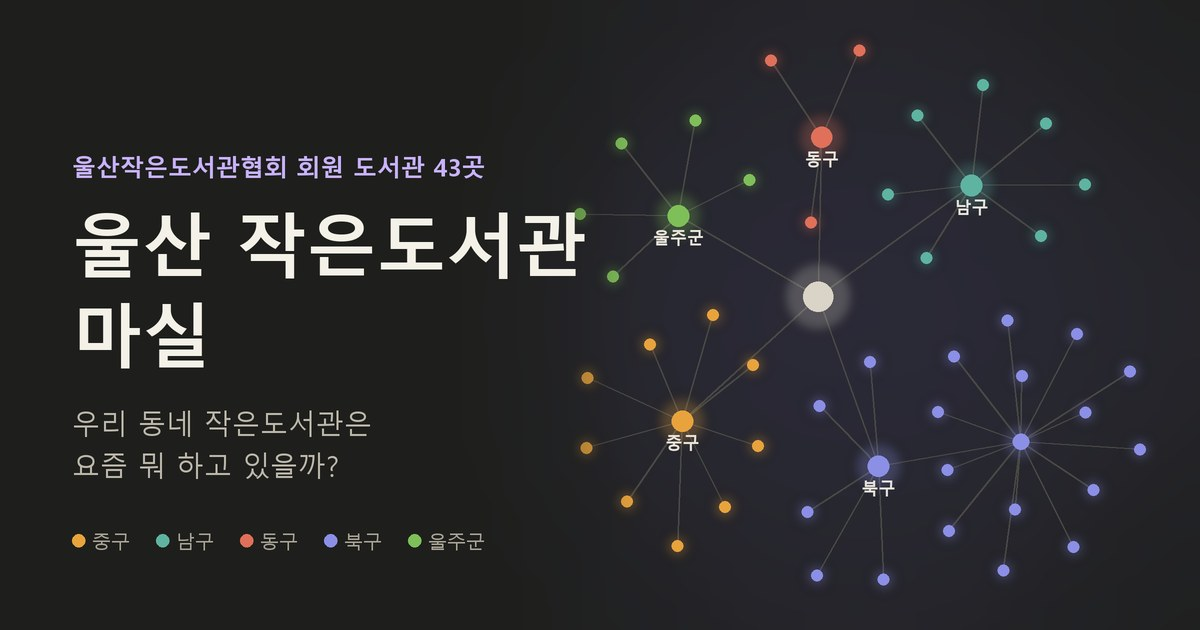
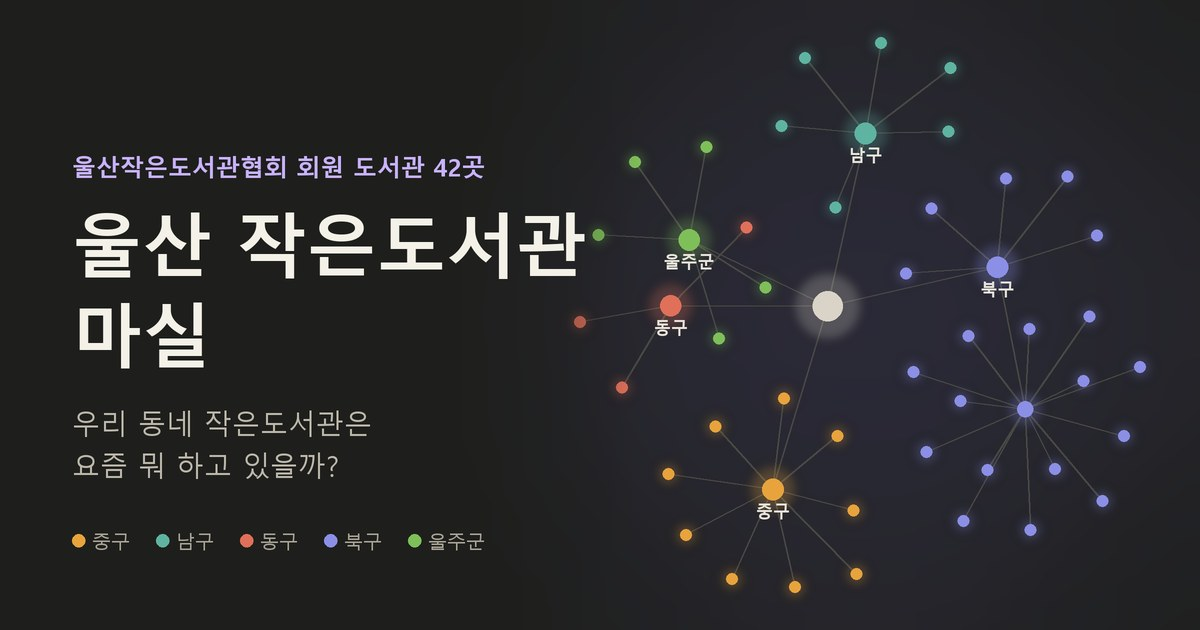
작은도서관 마실: 회원도서관 현황(2026.02.04, 42곳)으로 명단 갱신
대공원대명루첸·부엉이어린이 숨김, 책의숲작은도서관 추가, 해담은→해오름 이름 변경,
꿈틀꿈틀·밝은미래·다문화 새 주소(위치 못 찾아 지도 핀 뺌), 전화번호 갱신.
미리보기 그림도 42곳으로 다시 만듦. 캐시 때문에 명단·공용 스크립트 버전 올림.

diff --git a/landing/smalllib/index.html b/landing/smalllib/index.html
@@ -9,7 +9,7 @@
 <meta property="og:url" content="https://vaulted-bus-346411.web.app/smalllib">
 <meta property="og:title" content="울산 작은도서관 마실">
 <meta property="og:description" content="우리 동네 작은도서관은 요즘 뭐 하고 있을까? 울산 작은도서관들의 사진과 활동 소식.">
-<meta property="og:image" content="https://vaulted-bus-346411.web.app/smalllib/og.jpg?v=1">
+<meta property="og:image" content="https://vaulted-bus-346411.web.app/smalllib/og.jpg?v=2">
 <meta property="og:image:width" content="1200">
 <meta property="og:image:height" content="630">
 <meta name="twitter:card" content="summary_large_image">
@@ -72,7 +72,7 @@
 <div class="lightbox" id="lightbox" hidden><img alt=""></div>
 
 <script src="https://cdnjs.cloudflare.com/ajax/libs/leaflet/1.9.4/leaflet.min.js"></script>
-<script src="/smalllib/common.js?v=1"></script>
+<script src="/smalllib/common.js?v=2"></script>
 <script src="/smalllib/graph.js?v=1"></script>
 <script src="/smalllib/app.js?v=2"></script>
 </body>

diff --git a/landing/smalllib/common.js b/landing/smalllib/common.js
@@ -18,7 +18,7 @@ const SL = (() => {
   }
   let libsPromise;
   function libraries() {
-    libsPromise = libsPromise || fetch('/smalllib/libraries.json?v=1').then((r) => r.json()).then((d) => d.libraries);
+    libsPromise = libsPromise || fetch('/smalllib/libraries.json?v=2').then((r) => r.json()).then((d) => d.libraries);
     return libsPromise;
   }
   const photo = (id) => API + '/smalllib/photo/' + encodeURIComponent(id);

diff --git a/landing/smalllib/write.html b/landing/smalllib/write.html
@@ -67,7 +67,7 @@
   </div>
   <footer>울산 작은도서관 마실 · 관장님 올리기 화면</footer>
 </div>
-<script src="/smalllib/common.js?v=1"></script>
+<script src="/smalllib/common.js?v=2"></script>
 <script src="/smalllib/write.js?v=1"></script>
 </body>
 </html>

diff --git a/landing/smalllib/admin.html b/landing/smalllib/admin.html
@@ -21,7 +21,7 @@
     <div id="posts" style="margin-top:12px"></div>
   </div>
 </div>
-<script src="/smalllib/common.js?v=1"></script>
+<script src="/smalllib/common.js?v=2"></script>
 <script>
 (async () => {
   const $ = (id) => document.getElementById(id);
